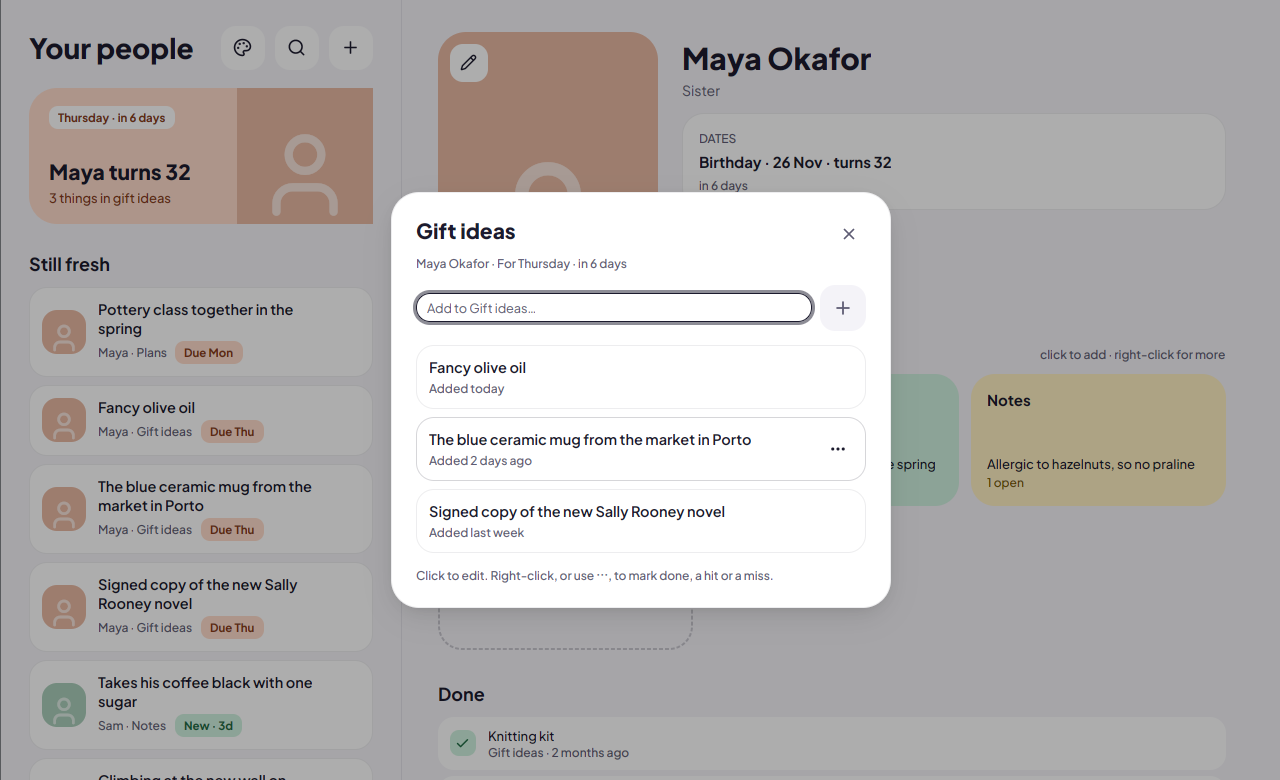
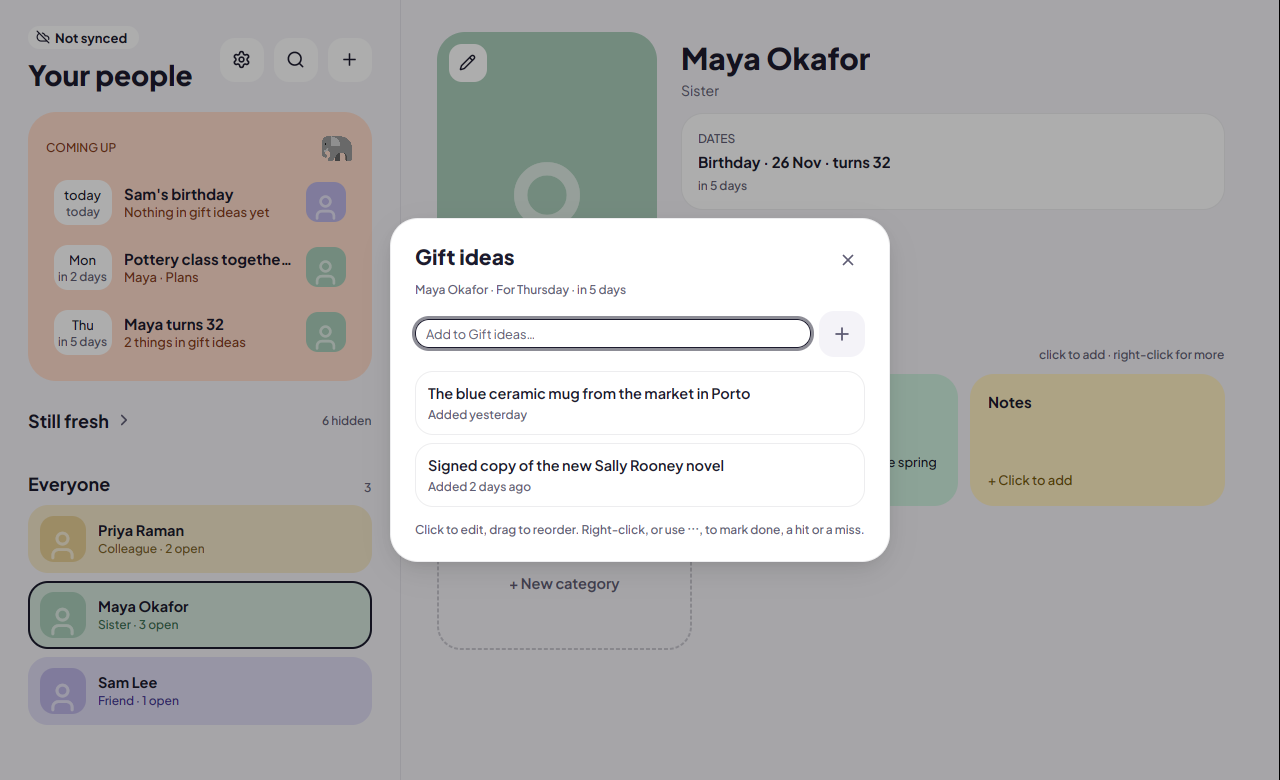
Website for 1.0: new screenshots, a third of the download
Screenshots retaken in the 1.0 look (tinted people, Settings with backup files),
served as lossless WebP and lazy-loaded, so a visitor downloads only the one
for their theme: ~65 KB instead of ~230 KB of PNGs. The PNGs stay (updated) for
link previews and the AppStream metadata.

Claude-Session: https://claude.ai/code/session_01FpjSgspF1uN9gicYEjohzZ

diff --git a/website/index.html b/website/index.html
@@ -46,8 +46,8 @@
         </div>
         <div class="hero-art">
           <div class="shot">
-            <img class="light-only" src="/shots/desktop-light.png" width="1280" height="780" alt="Memi on a computer: a list of people on the left, Maya's birthday coming up in six days, and her Gift ideas, Plans and Notes on the right.">
-            <img class="dark-only" src="/shots/desktop-dark.png" width="1280" height="780" alt="Memi in dark mode with the theme panel open.">
+            <img class="light-only" src="/shots/desktop-light.webp" width="1280" height="780" loading="lazy" decoding="async" alt="Memi on a computer: a list of people on the left, Maya's birthday coming up, and her Gift ideas, Plans and Notes on the right.">
+            <img class="dark-only" src="/shots/desktop-dark.webp" width="1280" height="780" loading="lazy" decoding="async" alt="Memi in dark mode with Settings open.">
           </div>
           <img class="memi" src="/img/memi.png" width="112" height="112" alt="Memi the elephant">
         </div>
